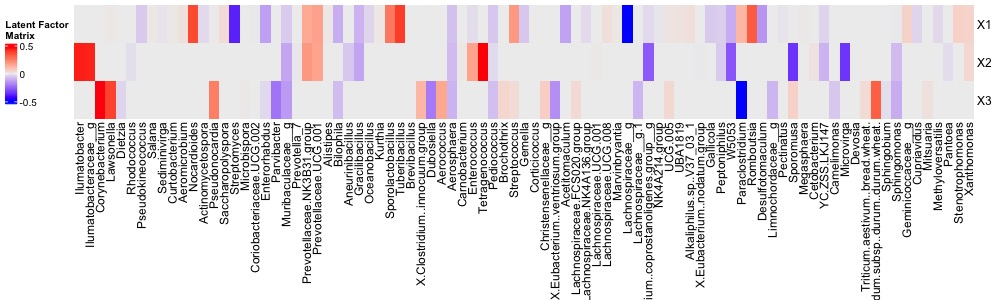
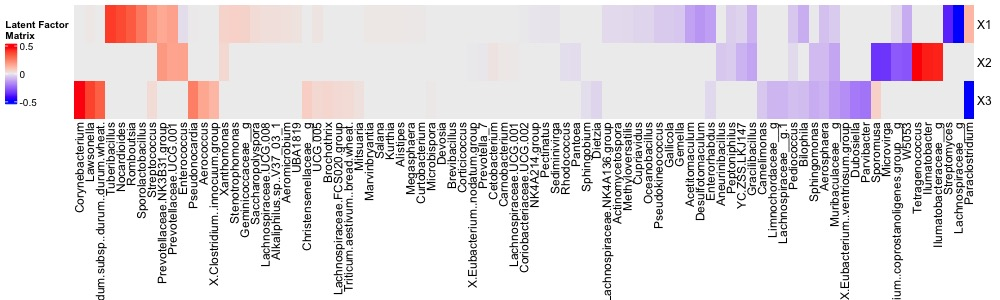
updated readme and package function

diff --git a/README.md b/README.md
@@ -97,7 +97,7 @@ df_plot <- A %*% fit_seq$U %>% data.frame() %>%
   .[rowSums(.[,1:3])!=0,] 
 jpeg('../misc/sup_comp_latent_fac.jpg', width = 1000, height = 300)
 ht <- Heatmap(t(as.matrix(df_plot)), show_row_dend = F, show_column_dend = F,
-              cluster_rows = F, cluster_columns = F,
+              cluster_rows = F, cluster_columns = T,
               heatmap_legend_param = list(title = 'Latent Factor\nMatrix'))
 draw(ht, heatmap_legend_side = "left",annotation_legend_side="right")
 dev.off()
